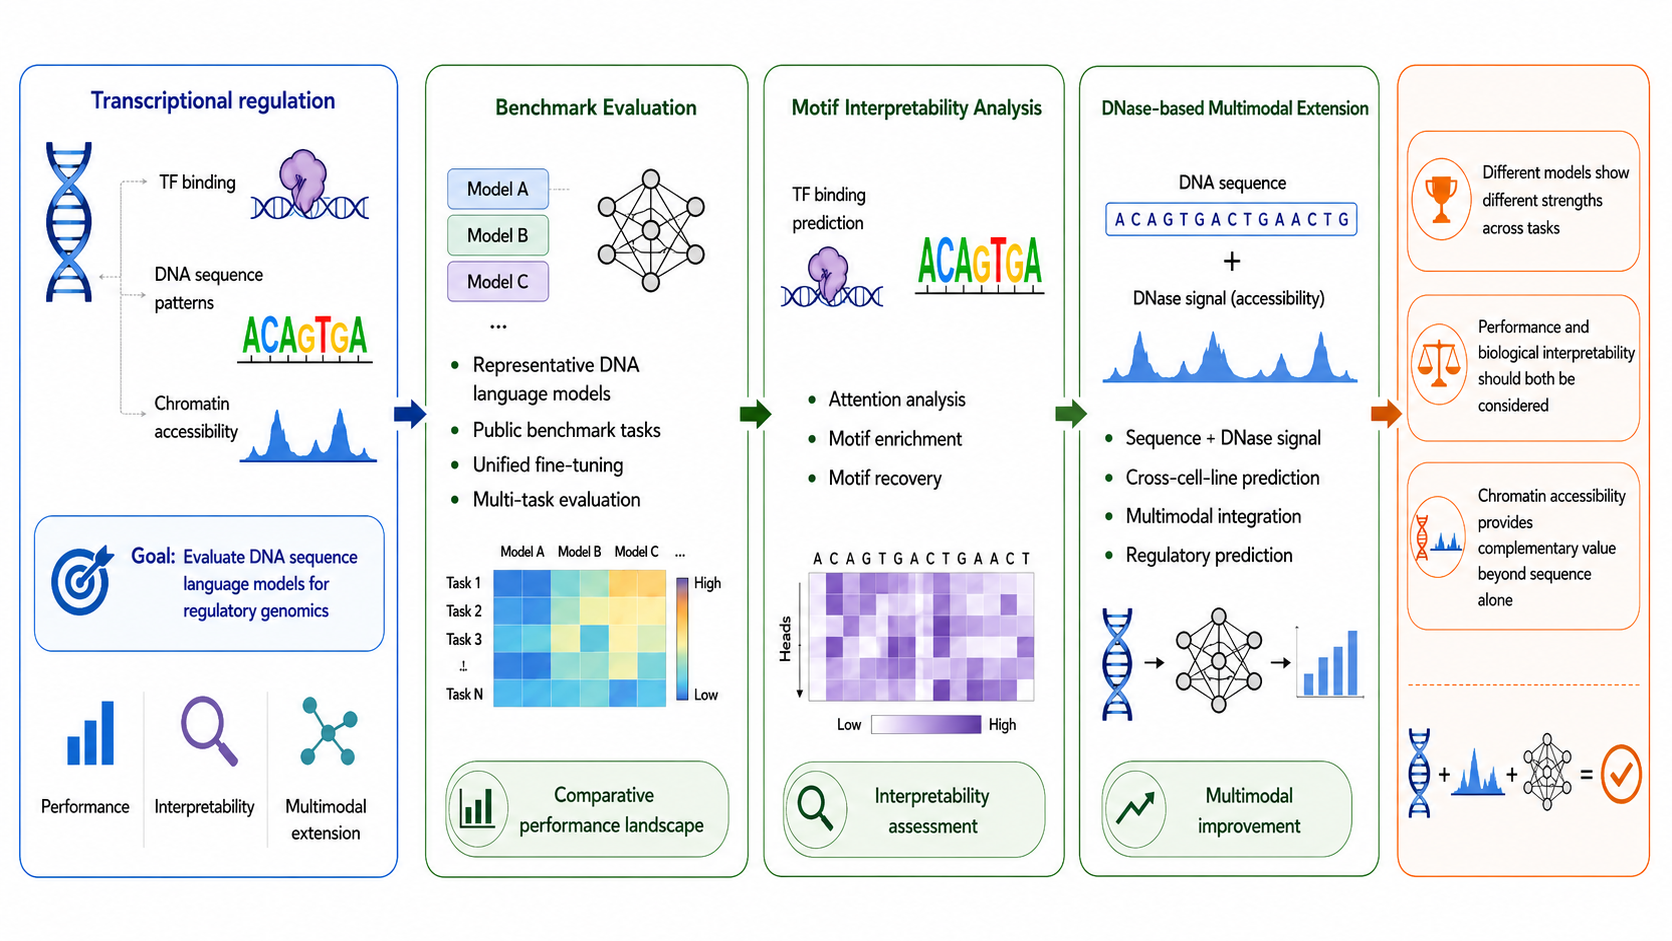
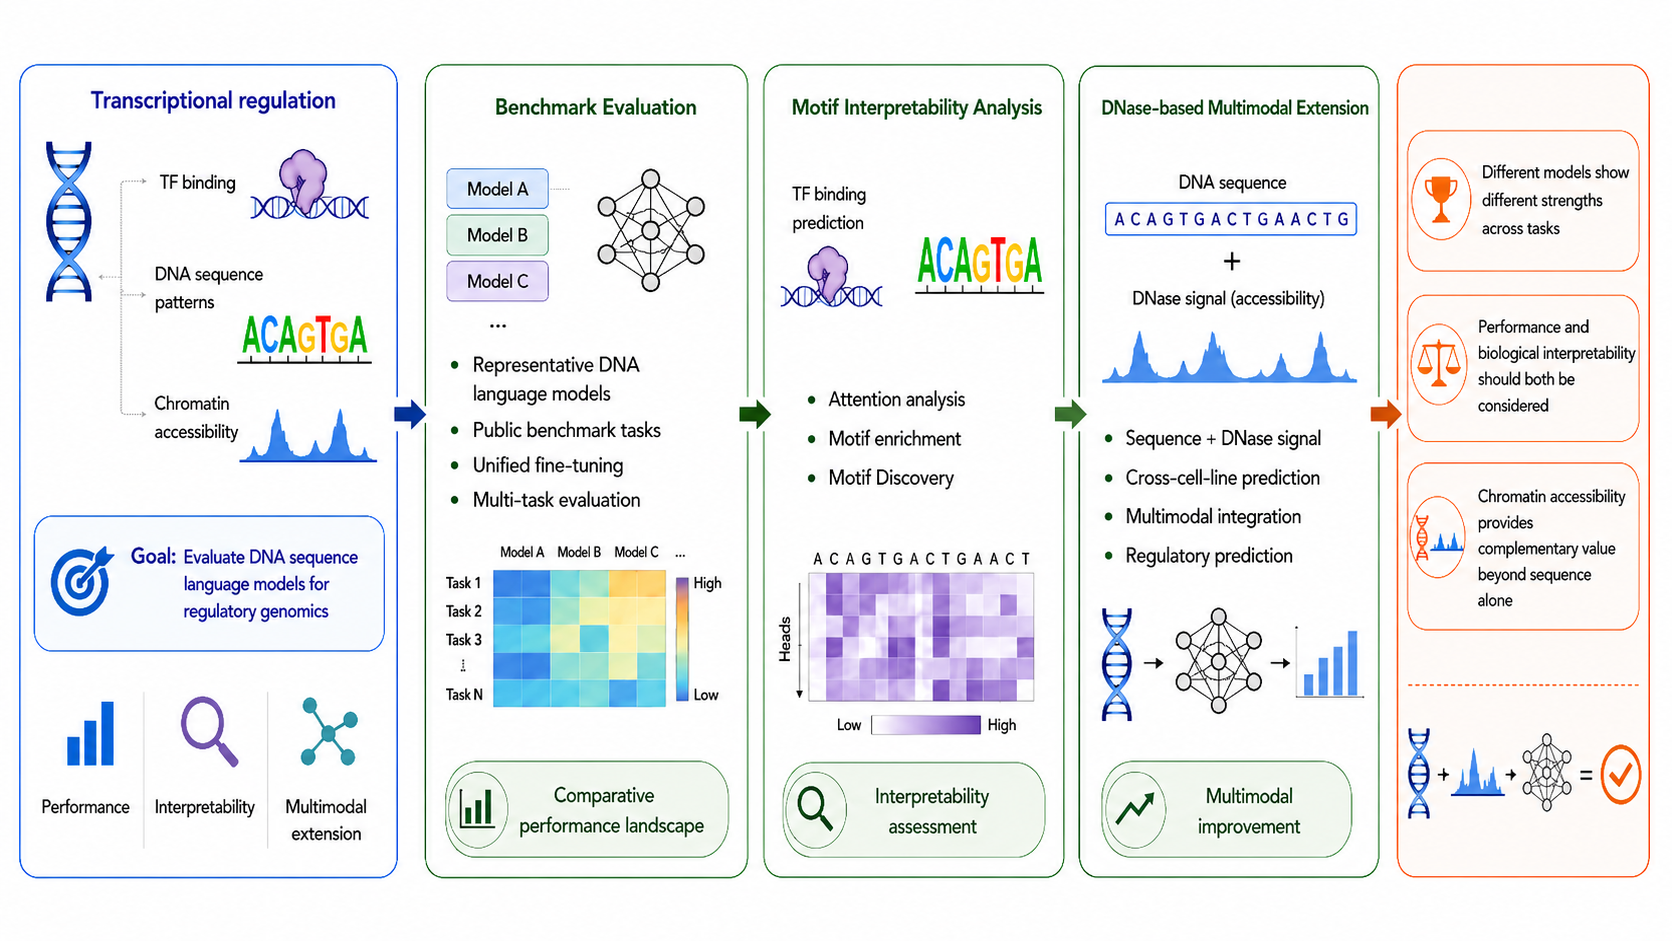
fix Exp3 name and update workflow fig

diff --git a/README.md b/README.md
@@ -14,7 +14,7 @@ A reproducible benchmark suite accompanying the graduation thesis "Benchmark and
 |---|---|---|
 | [Exp1 — Public Benchmark](Exp1_Public-dataset-bench/) | Fine-tune five DNA LMs on 40 NT + GUE tasks; compare MCC across models and tasks | DNABERT-2, NT-v2-500M, GENA-LM, HyenaDNA, GROVER |
 | [Exp2 — Motif Interpretability](Exp2_Motif-Interpretability-Analysis/) | TFBS fine-tuning → attention enrichment on known FIMO motifs → attention-guided TF-MoDISco motif discovery | DNABERT-2, GENA-LM, GROVER, NT-v2-500M |
-| [Exp3 — DNase Multimodal](Exp3_%20DNase-based-Multimodal-Extension/) | Cross-cell-type TF binding prediction with sequence-only vs. sequence + DNase signal; evaluate AUPRC on held-out GM12878 | Basic CNN-LSTM, DNABERT-2, GROVER, GENA-LM, NT-v2-500M, HyenaDNA |
+| [Exp3 — DNase Multimodal](Exp3_DNase-based-Multimodal-Extension/) | Cross-cell-type TF binding prediction with sequence-only vs. sequence + DNase signal; evaluate AUPRC on held-out GM12878 | Basic CNN-LSTM, DNABERT-2, GROVER, GENA-LM, NT-v2-500M, HyenaDNA |
 
 ---
 
@@ -32,7 +32,7 @@ Then install each experiment's Python package in editable mode:
 ```bash
 pip install -e Exp1_Public-dataset-bench
 pip install -e Exp2_Motif-Interpretability-Analysis
-pip install -e "Exp3_ DNase-based-Multimodal-Extension"
+pip install -e Exp3_DNase-based-Multimodal-Extension
 ```
 
 > **CUDA note**: The environment file targets CUDA 12.1 PyTorch. On a CPU-only machine, remove `pytorch-cuda=12.1` and the `nvidia` channel before creating the environment.
@@ -140,7 +140,7 @@ See [Exp2_Motif-Interpretability-Analysis/](Exp2_Motif-Interpretability-Analysis
 
 ### Data Sources
 
-DNase-seq and ChIP-seq data used in Exp3 are documented in [Exp3_ DNase-based-Multimodal-Extension/data_sources.md](<Exp3_ DNase-based-Multimodal-Extension/data_sources.md>).
+DNase-seq and ChIP-seq data used in Exp3 are documented in [Exp3_DNase-based-Multimodal-Extension/data_sources.md](Exp3_DNase-based-Multimodal-Extension/data_sources.md).
 
 - **Training cell lines**: K562, HepG2, Lung
 - **Test cell line**: GM12878 (cross-cell-type generalization)
@@ -166,4 +166,4 @@ bash "Exp3_ DNase-based-Multimodal-Extension/scripts/07_extract_auprc.sh"
 bash "Exp3_ DNase-based-Multimodal-Extension/scripts/08_plot_auprc.sh"
 ```
 
-See [Exp3_ DNase-based-Multimodal-Extension/](<Exp3_ DNase-based-Multimodal-Extension/>) for notebooks demonstrating data preparation and fine-tuning with CTCF + GROVER.
+See [Exp3_DNase-based-Multimodal-Extension/](Exp3_DNase-based-Multimodal-Extension/) for notebooks demonstrating data preparation and fine-tuning with CTCF + GROVER.